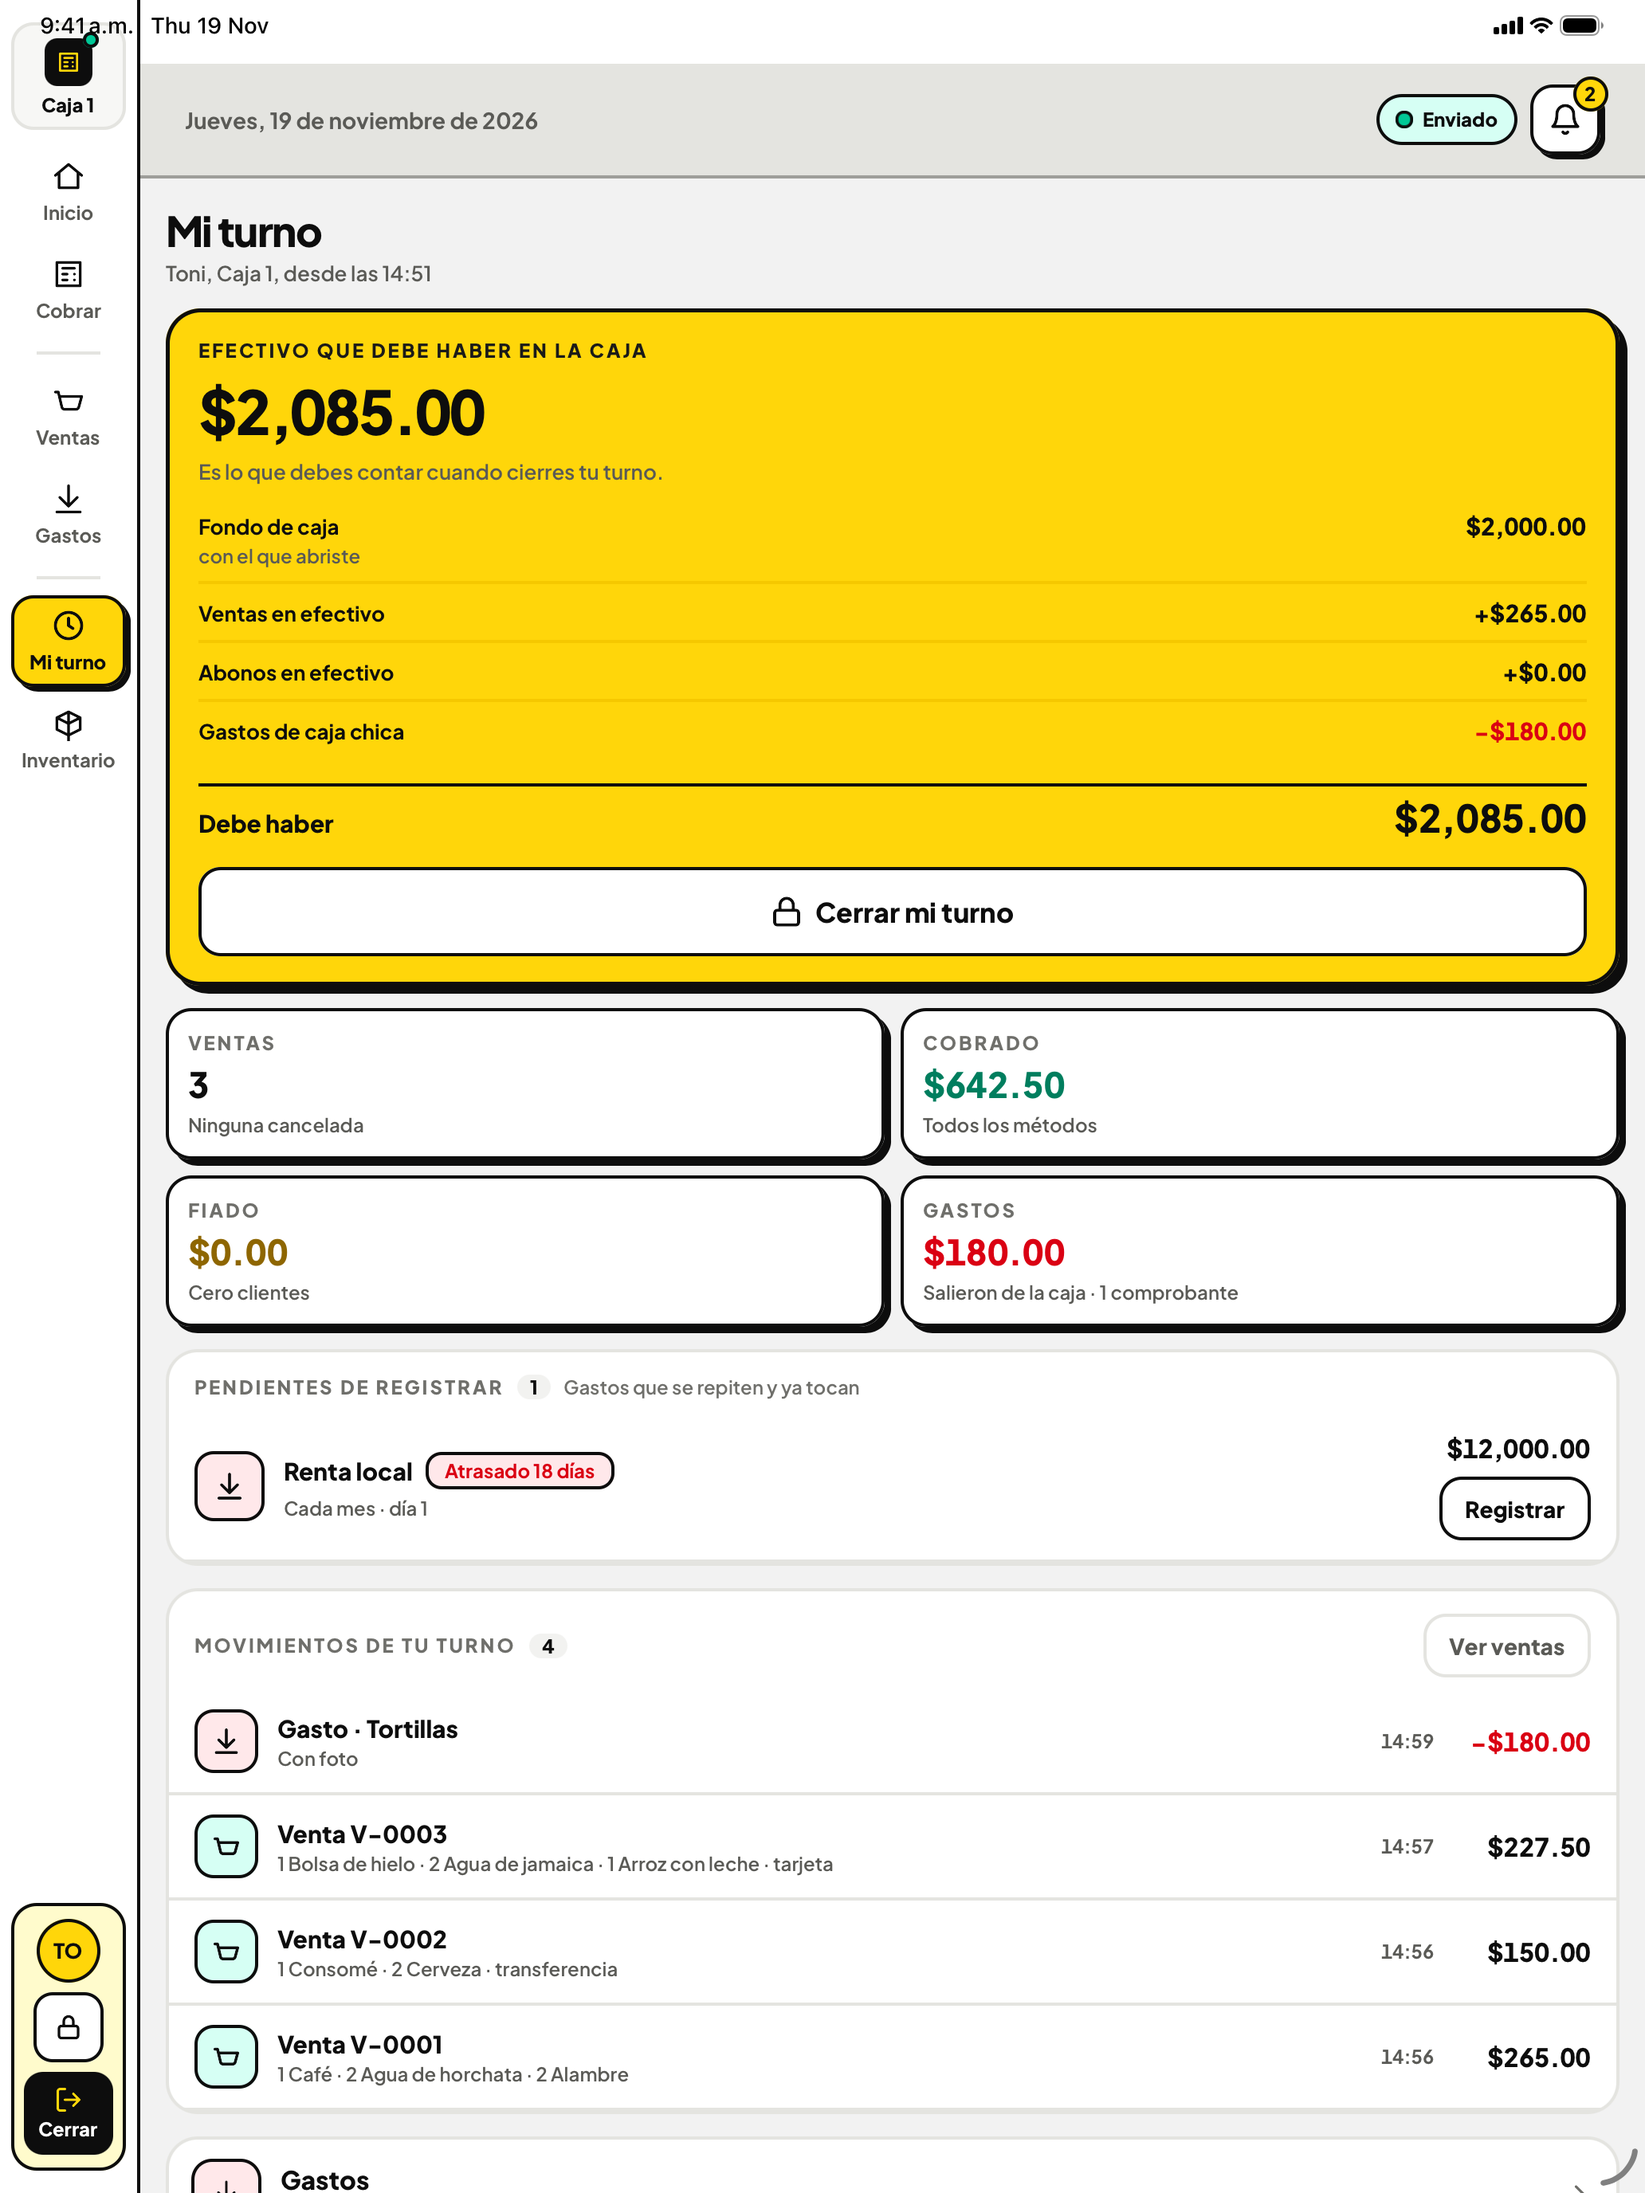
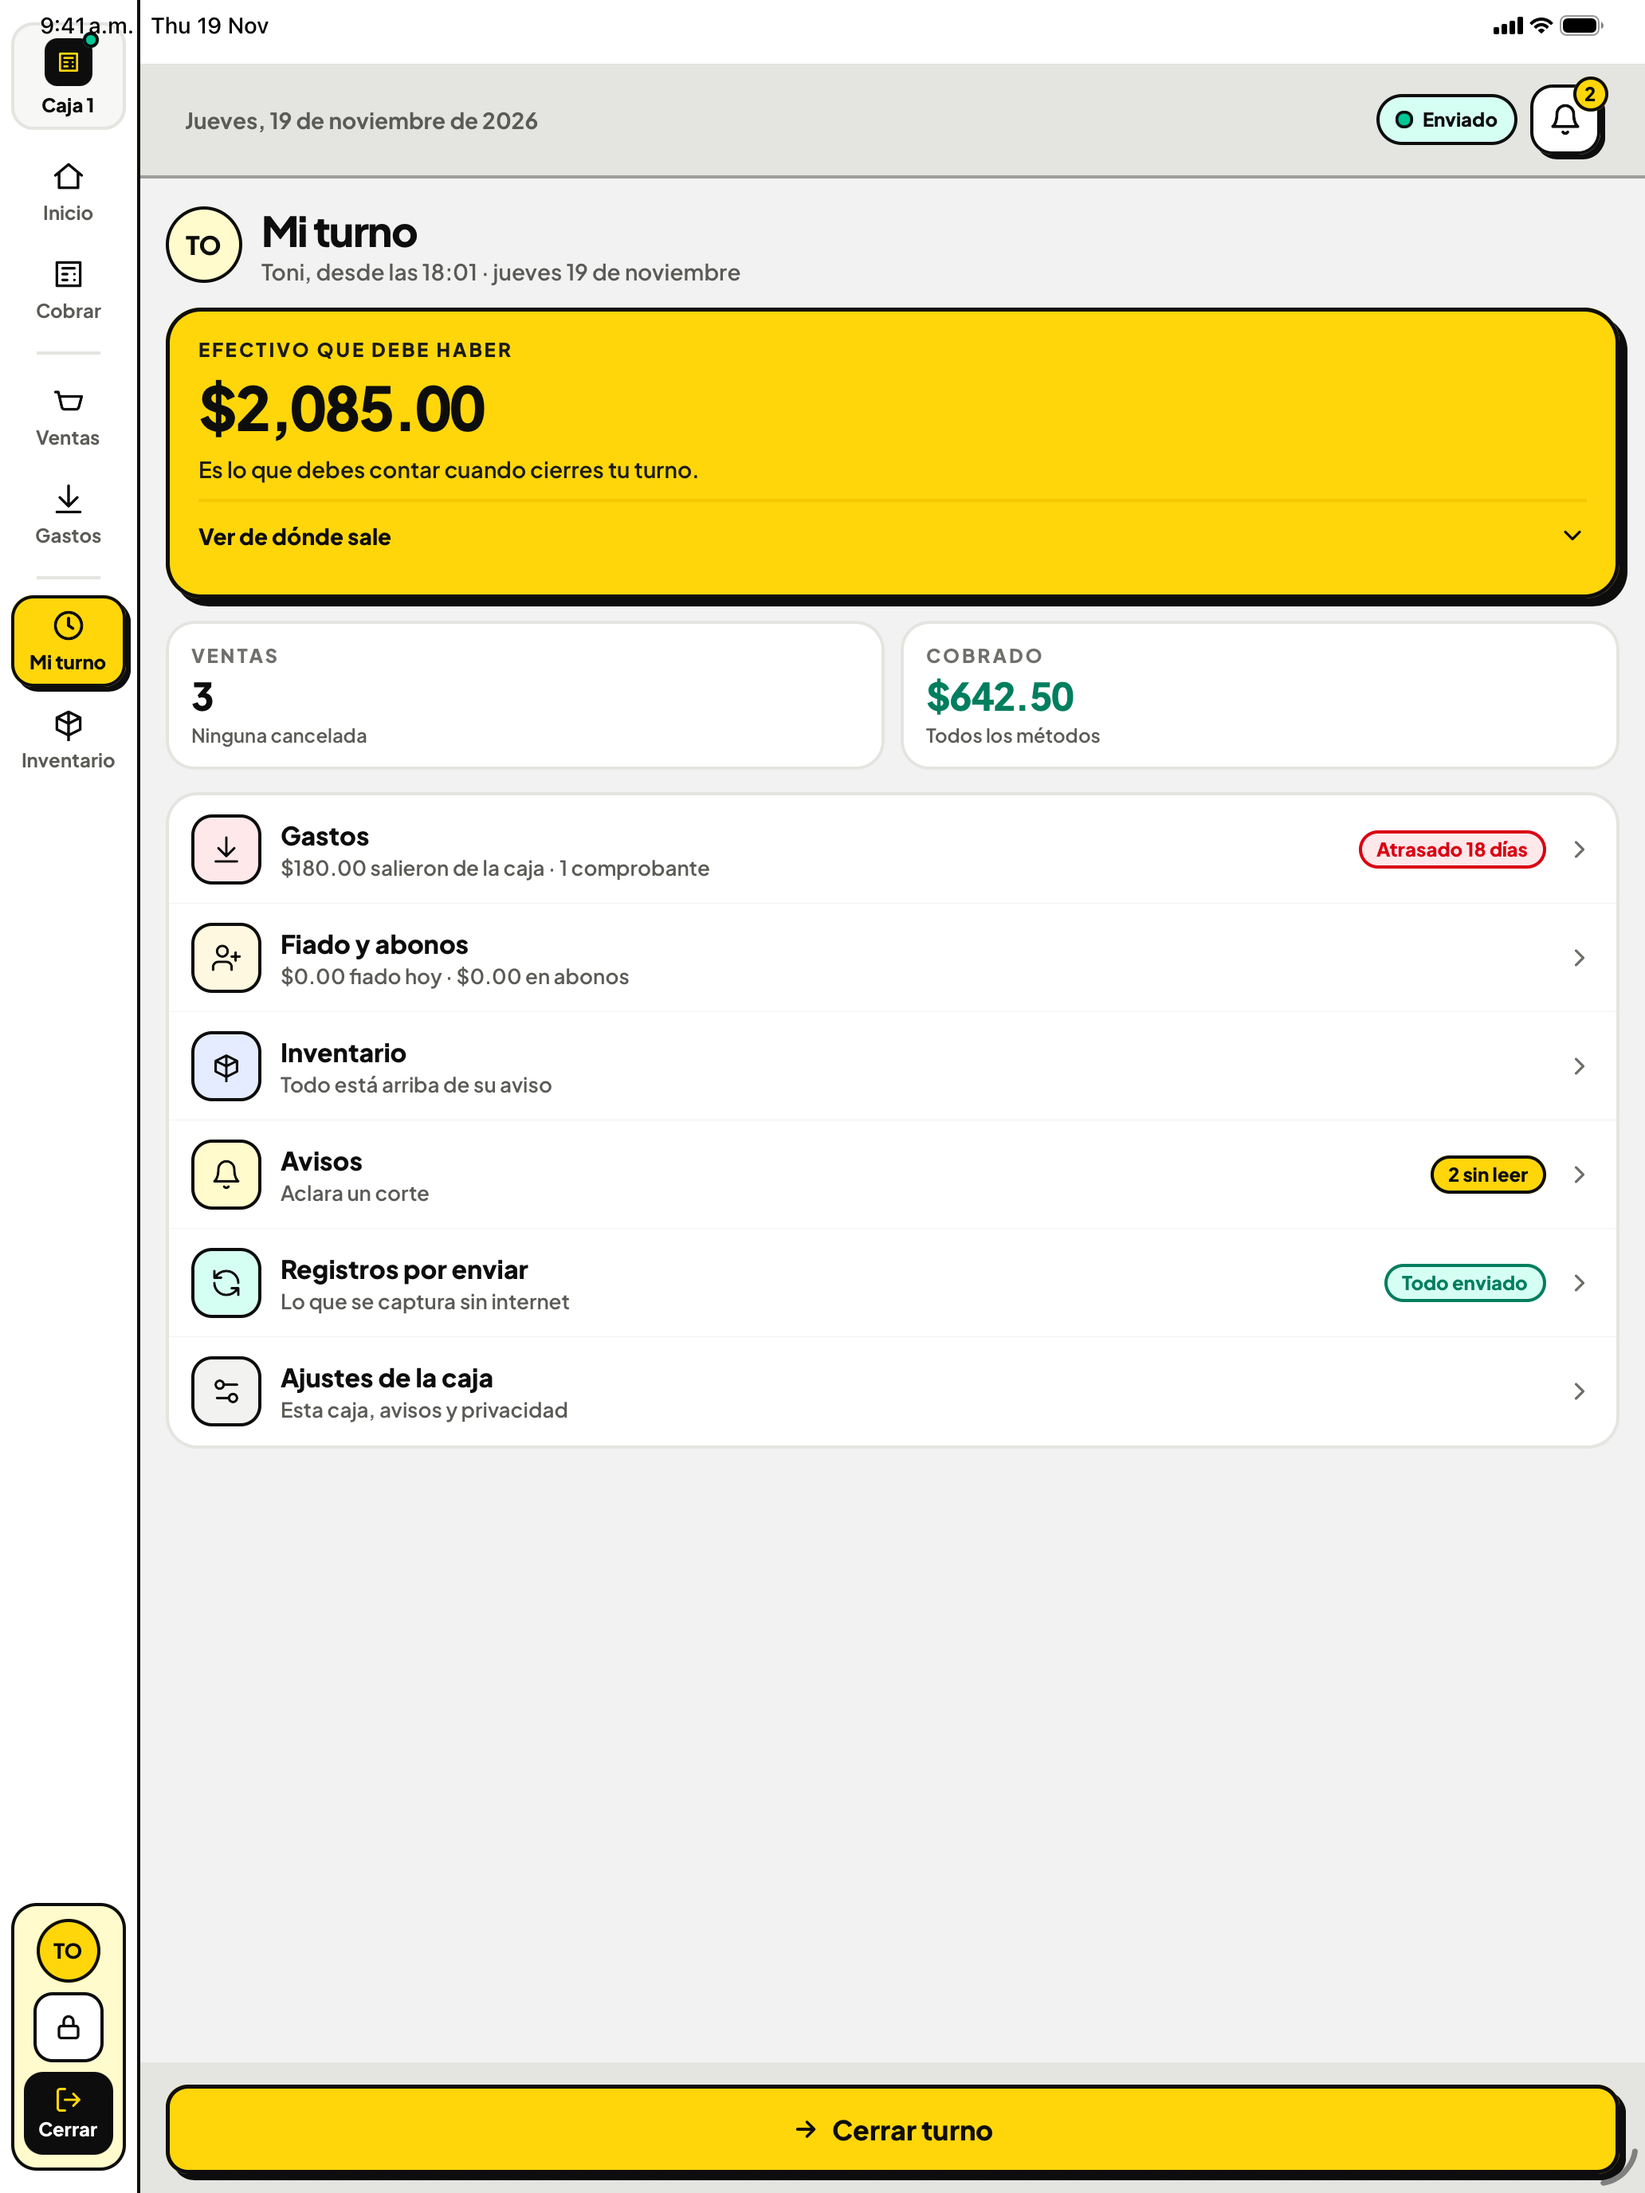
chore(store): retake the App Store set with the new Ventas and Mi turno
Both devices, from main after #195 and #196: Inicio, Mi turno, Ventas and
Gastos changed; the other four came out byte-identical. The manifest names
the redesigns and notes the iPhone's cut Gastos row on Mi turno.

diff --git a/app-registration/apple/SCREENSHOTS.md b/app-registration/apple/SCREENSHOTS.md
@@ -1,8 +1,9 @@
 # Screenshots manifest — `screenshots/`
 
-Captured 2026-11-19 (retaken that afternoon with the receipt photo) from the real app by one Maestro flow,
+Captured 2026-11-19 from the real app by one Maestro flow,
 [`store-screenshots.yaml`](../../apps/mobile/maestro/flows/internal/store-screenshots.yaml),
-against the contracts mock, on `main` with the gasto's receipt photo (PR #181). No
+against the contracts mock, on `main` with the gasto's receipt photo (PR #181)
+and the redesigned Ventas and Mi turno (PRs #195, #196). No
 compositing, no fixture screens: what the app shows for the demo taquería
 («Tacos La Esquina») is what the shots contain. Play's set comes from the same
 flow ([`../google-play/SCREENSHOTS.md`](../google-play/SCREENSHOTS.md)).
@@ -21,16 +22,16 @@ The numbers are the store's order, not the capture's: Inicio first, because
 Don greets there; Vincular last, because a privacy notice should not open the
 set.
 
-| Shot             | Screen                                | What it shows                      |
-| ---------------- | ------------------------------------- | ---------------------------------- |
-| `01-inicio`      | Inicio with the turno open            | The operator's view of the day     |
-| `02-cobrar`      | Cobrar: catalogue + ticket building   | The money screen                   |
-| `03-checkout`    | «¿Cómo paga?», $500 and the change    | Cash, card, transfer, fiado        |
-| `04-venta-hecha` | Venta hecha with «Dale de cambio»     | The sale closes, receipt goes out  |
-| `05-mi-turno`    | Mi turno: the cash that must be there | The turno at a glance              |
-| `06-ventas`      | Ventas del turno                      | What the turno recorded            |
-| `07-gastos`      | Gastos del turno with one gasto       | What left the drawer               |
-| `08-activacion`  | Vincular, the typed code              | This app joins an existing negocio |
+| Shot             | Screen                                  | What it shows                      |
+| ---------------- | --------------------------------------- | ---------------------------------- |
+| `01-inicio`      | Inicio with the turno open              | The operator's view of the day     |
+| `02-cobrar`      | Cobrar: catalogue + ticket building     | The money screen                   |
+| `03-checkout`    | «¿Cómo paga?», $500 and the change      | Cash, card, transfer, fiado        |
+| `04-venta-hecha` | Venta hecha with «Dale de cambio»       | The sale closes, receipt goes out  |
+| `05-mi-turno`    | Mi turno: the cash and the turno's rows | The turno at a glance              |
+| `06-ventas`      | Ventas del turno, totals and filters    | What the turno recorded            |
+| `07-gastos`      | Gastos del turno with one gasto         | What left the drawer               |
+| `08-activacion`  | Vincular, the typed code                | This app joins an existing negocio |
 
 ## Devices and sizes (Apple's required sets)
 
@@ -44,8 +45,11 @@ set.
 - **Inicio greets «¡Buenas tardes, Toni!»** under a 9:41 status bar: the
   greeting follows the simulator's real clock, and the set was taken after
   noon.
-- **«Renta local» reads «Atrasado 49 días»**: the mock's recurrente is due on
+- **«Renta local» reads «Atrasado 18 días»**: the mock's recurrente is due on
   the 1st and nobody registers it in the story.
+- **On the iPhone, Mi turno's Gastos row is cut** («$180.00 salieron de la
+  c…»): the «Atrasado 18 días» chip takes the row's width. The iPad has room
+  and reads «· 1 comprobante».
 - **The iPad** draws its window-resize arc in the bottom-right corner, and the
   status bar's «9:41 a.m.» sits over the rail's «Caja 1» chip; both are iPadOS.
 
